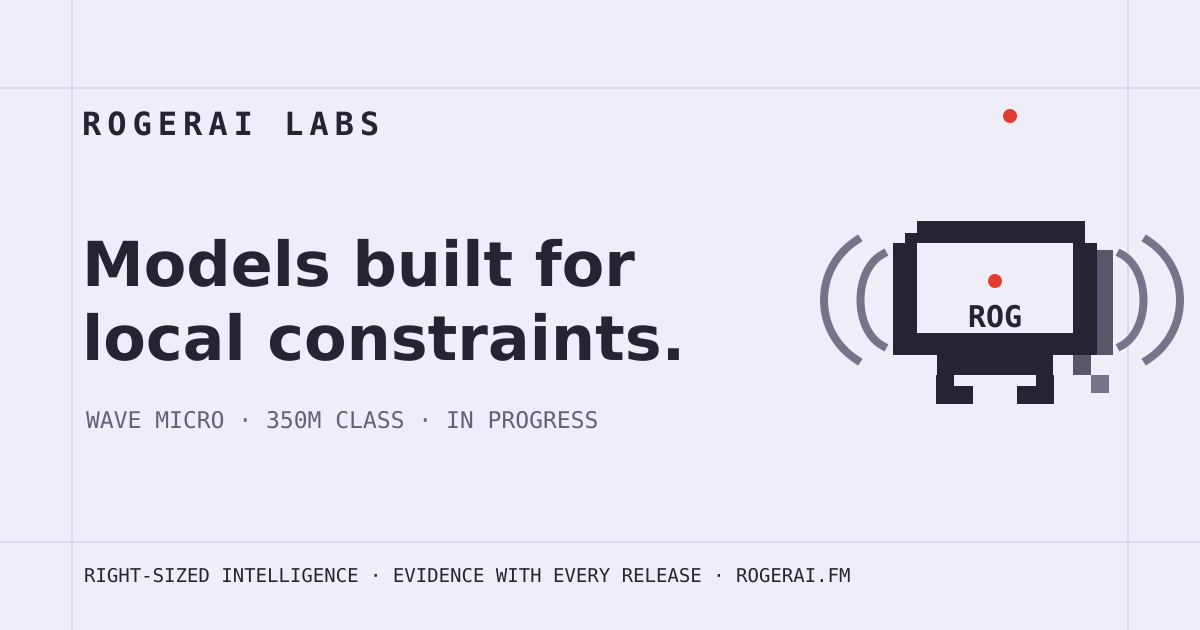
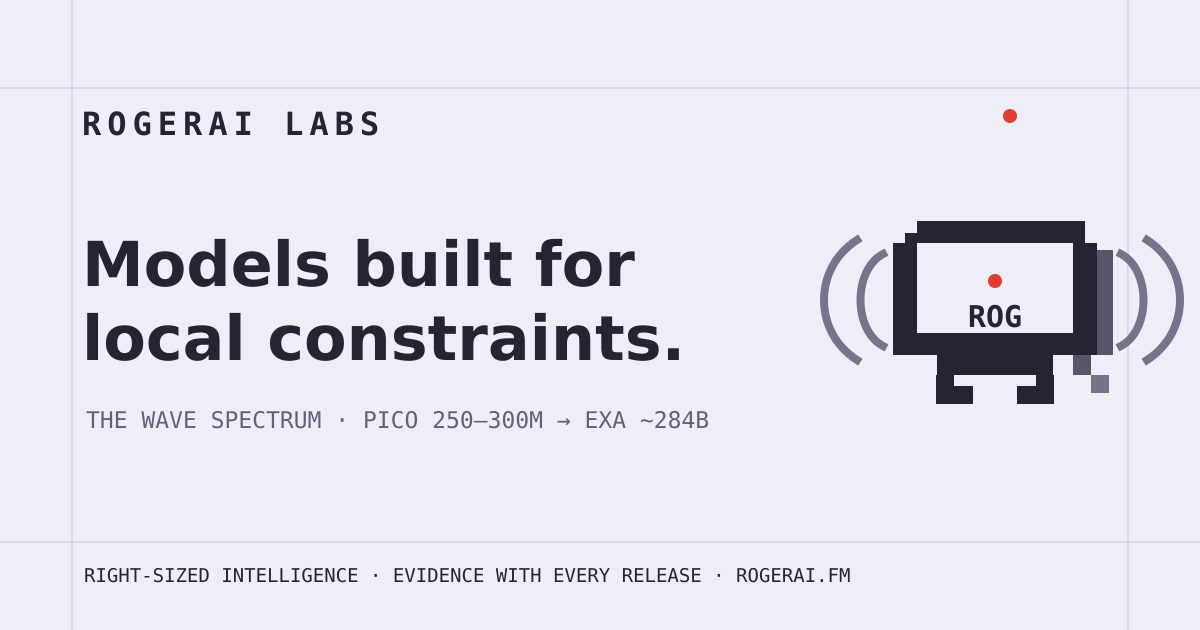
release audit fixes: the last dead-ladder surfaces, and "certified" names its gate
An independent release audit swept the site (naming, honesty rails, tone,
consistency, hygiene). Verdict: honesty machinery sound, two blockers -
both the same disease, pre-Spectrum copy that survived the ladder purge:

- BLOCKER: the Playbox shelf's FAMILY_SPINES still sold the dead ladder -
  a "WAVE CORE · 8-30B" spine, Micro at "1-8B", and a "TRAINED · OFF AIR"
  chip contradicting the family page (Pico holds the only trained
  waypoint). The shelf now speaks the locked Spectrum: Micro 7-8B
  (PLANNED, base+specialize), Giga 27-35B replacing Core, no training
  claim the research pages contradict. Playbox lock rewritten to pin the
  new truth and refuse "wave-core" outright.
- BLOCKER: og-research.svg (the share card for every research page and
  tower.html) read "WAVE MICRO · 350M CLASS · IN PROGRESS" - the old
  Nano-class figure on the wrong tier. Now "THE WAVE SPECTRUM · PICO
  250-300M -> EXA ~284B"; PNG re-rendered, sha pin updated (the
  wave-claim-sweep stale-render guard verified it).
- MAJOR: "certified" on two research surfaces now names whose gate it is
  ("certified against our own release gate") so nobody reads an external
  body into it.
- Stray feature file committed with its two stale lines corrected to the
  current proof bar (two minutes at eighty percent; a touch is a setback,
  not a restart).
- Nit: stale "Fill every TODO" author note removed from the independence
  broadcast.
[…]

Changed region(s): [[0.2775, 0.6333, 0.5858, 0.6937], [0.0617, 0.6333, 0.2467, 0.6937]]

diff --git a/web/src/js/playbox.js b/web/src/js/playbox.js
@@ -255,13 +255,15 @@
     return k;
   }
 
-  // The Wave family on the shelf, honestly: Nano's recorded contracts are playable;
-  // Micro is trained but not yet on air; Core is a planned band. Nothing is faked -
+  // The Wave family on the shelf, honestly - and in the Spectrum's own words
+  // (release audit: this block was the last surface still speaking the dead
+  // pre-Spectrum ladder, "Core" and all, and claimed Micro trained while the
+  // family page says Pico holds the only trained waypoint). Nothing is faked -
   // the unplayable spines say exactly why they cannot play yet.
   var FAMILY_SPINES = [
-    { spine: true, model: "wave-micro", label: "WAVE MICRO", sub: "1–8B · text + tools",
-      chip: "TRAINED · OFF AIR", why: "Trained, not yet on air - no public checkpoint is released." },
-    { spine: true, model: "wave-core", label: "WAVE CORE", sub: "8–30B · planned band",
+    { spine: true, model: "wave-micro", label: "WAVE MICRO", sub: "7–8B · site brain",
+      chip: "PLANNED", why: "A planned specialization (base+specialize) - no checkpoint exists to put on air yet." },
+    { spine: true, model: "wave-giga", label: "WAVE GIGA", sub: "27–35B · plant band",
       chip: "PLANNED", why: "A planned band, not a final specification - nothing to play yet." }
   ];
 

diff --git a/web/src/research.html b/web/src/research.html
@@ -306,7 +306,7 @@
           </div>
           <figcaption id="scope-caption">Every band is a declared design target, not a
             measurement, and bands are placed for legibility in ladder order. Wave Pico
-            has a trained, certified waypoint build; no public checkpoint is released
+            has a trained waypoint build, certified against our own release gate; no public checkpoint is released
             yet. Above the plot, Wave Tera (80&ndash;120B), Wave Peta (150&ndash;200B)
             and Wave Exa (~284B) complete the Spectrum - see the family field guide.
             Plant jobs come from the field guide&rsquo;s jobs table; a slot taking part

diff --git a/web/src/research-wave-family.html b/web/src/research-wave-family.html
@@ -102,7 +102,7 @@
             </div>
           </div>
           <figcaption id="wf-rail-cap">Filled marker: a trained waypoint artifact exists
-            (Wave Pico&rsquo;s certified 100M-class build; 250&ndash;300M is the tier
+            (Wave Pico&rsquo;s 100M-class build, certified against our own release gate; 250&ndash;300M is the tier
             target; no public checkpoint released yet). Hollow: a program stage. The top
             three tiers sit close because they are: Exa is under three times Tera, which
             is what half a decade looks like on a log axis. Wave Infinite is not a size,

diff --git a/web/src/broadcasts-independence-v5.html b/web/src/broadcasts-independence-v5.html
@@ -11,7 +11,6 @@
        3. Update the <head> title/desc, the .bc-post__no counter, the date,
           the H1, the dek, and the section bodies.
        4. Add a <li class="bc-row"> for it at the TOP of broadcasts.html.
-     Fill every `<!-- TODO: ... -->` before publishing.
      ===================================================================== -->
 <html lang="en">
 <head>
